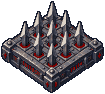
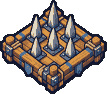
feat(assets): align runner obstacles with game style

diff --git a/packages/engine/src/tiny-swords-catalog.ts b/packages/engine/src/tiny-swords-catalog.ts
@@ -314,7 +314,7 @@ const LINDOCARA_LAB_EDITOR_ASSETS = [
     category: "Lindocara/Runner",
     role: "event-state",
     tags: ["runner", "trap", "spikes", "generated", "hd2d"],
-    width: 105,
+    width: 107,
     height: 94,
     nature: "static",
     anchor: { x: 0.5, y: 1 },
@@ -334,7 +334,7 @@ const LINDOCARA_LAB_EDITOR_ASSETS = [
     category: "Lindocara/Runner",
     role: "world-obstacle",
     tags: ["runner", "obstacle", "barricade", "wood", "generated", "hd2d"],
-    width: 142,
+    width: 136,
     height: 122,
     nature: "static",
     anchor: { x: 0.5, y: 1 },
